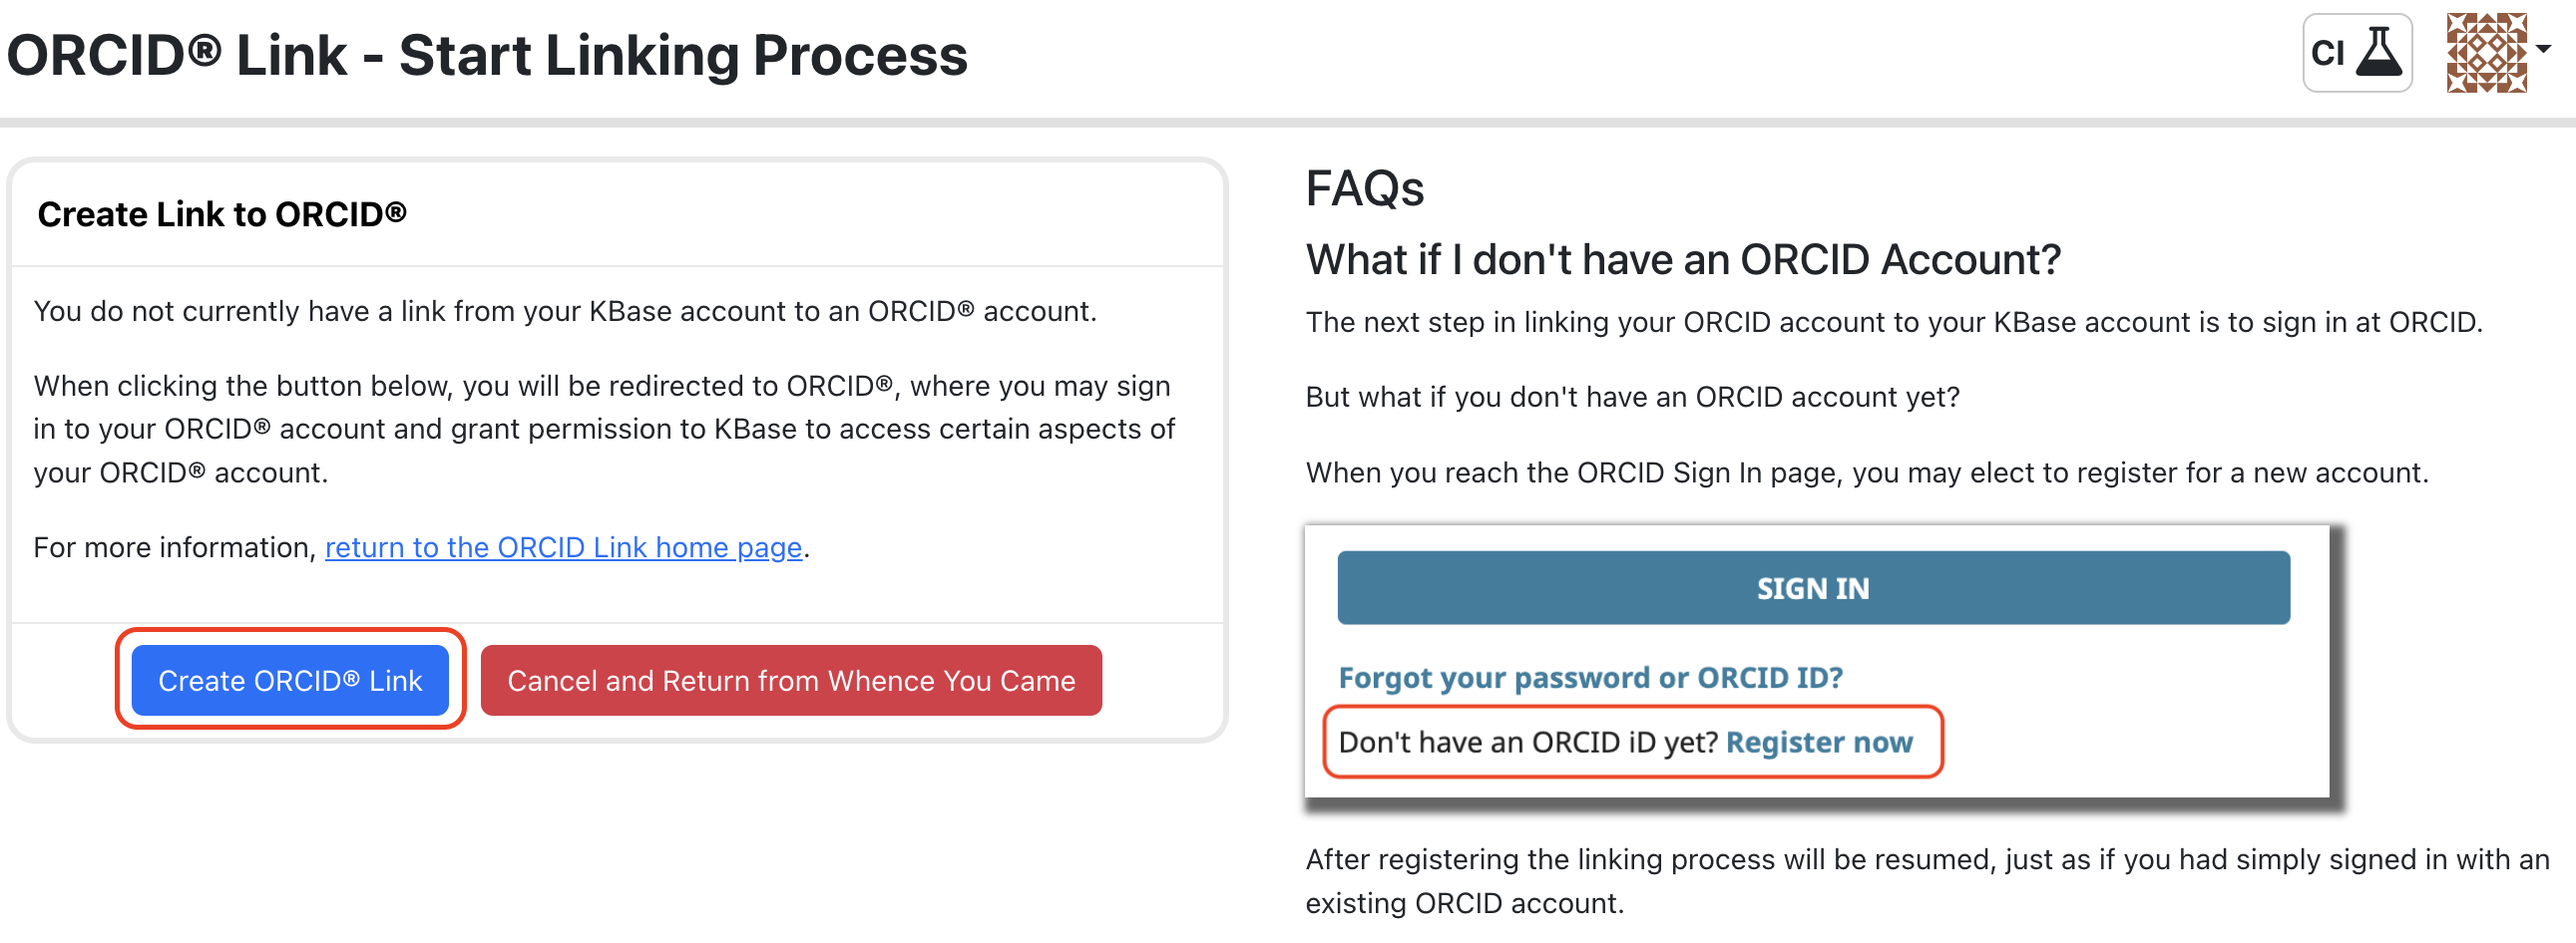
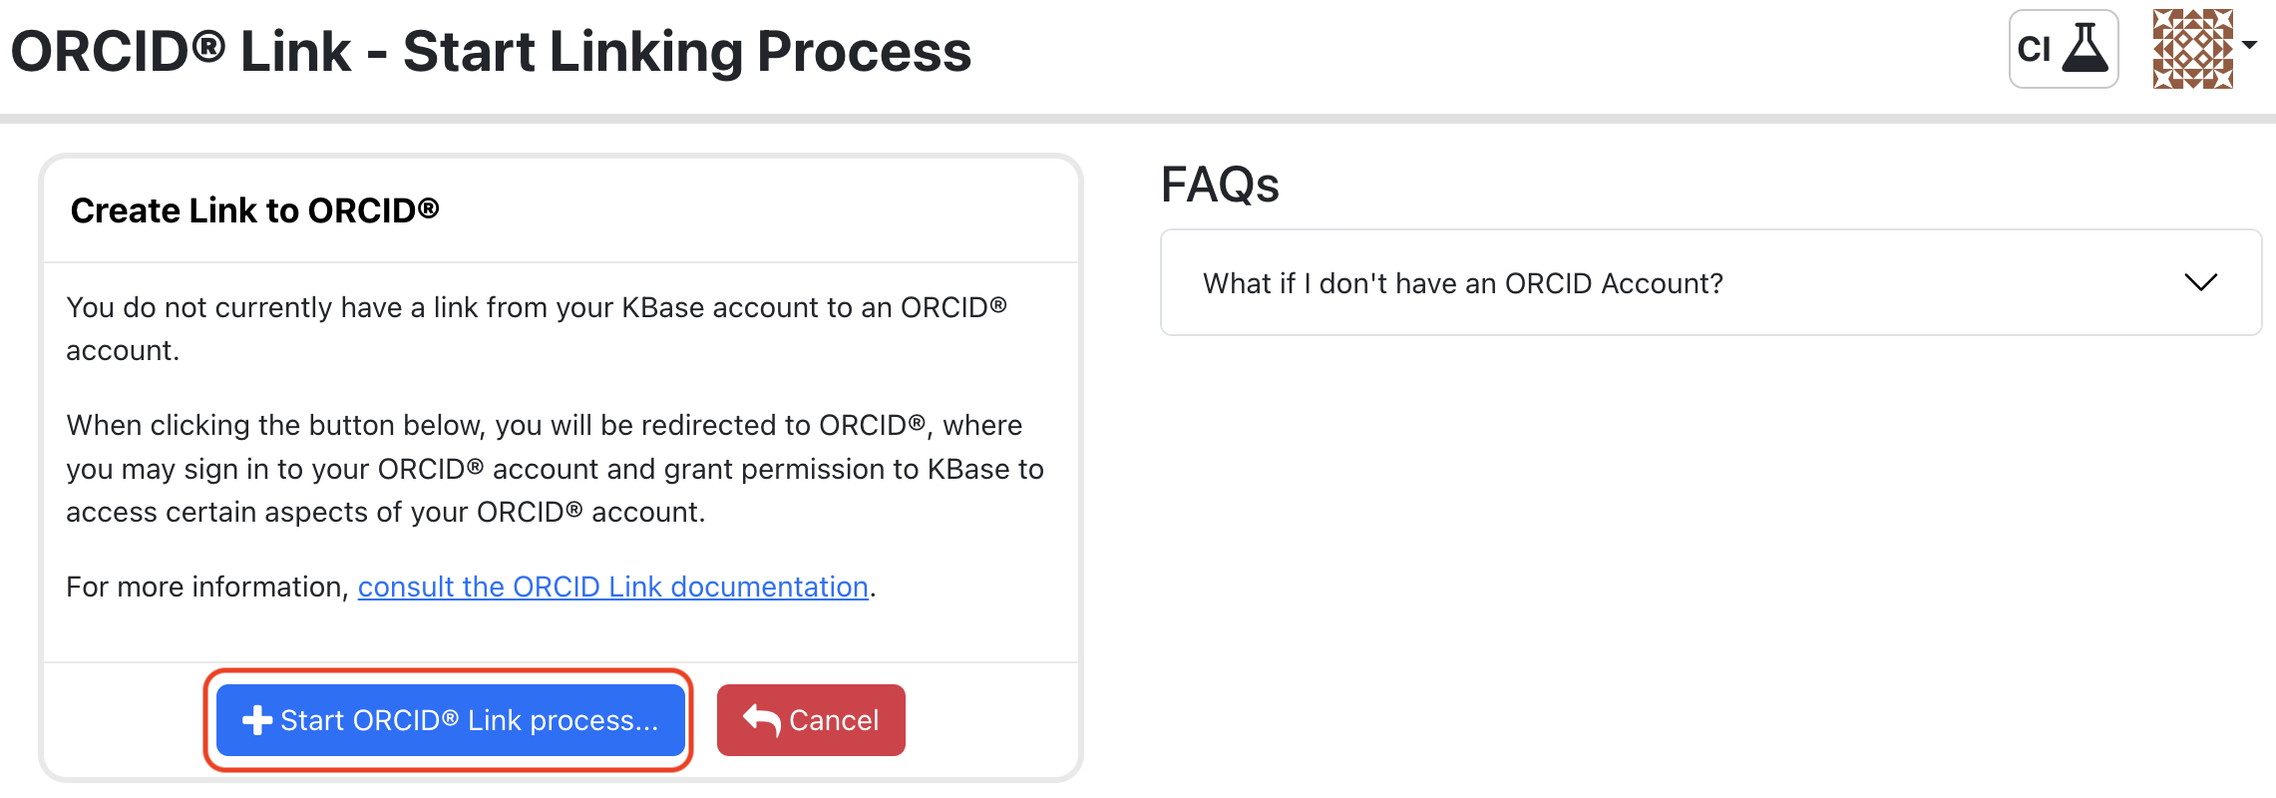
add "link from process" doc; update images

diff --git a/ORCID Link Usage Docs.md b/ORCID Link Usage Docs.md
@@ -187,7 +187,42 @@ If some UI process requires or is optionally able to use an ORCID Link (e.g. to 
 
 The ORCID Link prototype includes a small workflow which demonstrates this.
 
-> TODO - go through that process here
+#### Instructions
+
+1. Use the Demo link to start the process
+
+   ![Interstitial demo start link](./images/link-from-process/demo-link.png)
+
+2. In Step 1, select either the first or second link.
+
+   Each link will re-enter this page at the indicated step. This is controlled by the link.
+
+   ![Demo page](./images/link-from-process/demo-page.png)
+
+3. Start the linking process.
+
+   ![Start linking](./images//link-from-process/start-link.png)
+
+   - Note that there is now an info alert above the buttons letting the user know
+   that they will re-enter whatever process they started in.
+
+      The information in the link provides a url as well as a label to display to the user
+
+4. Sign in to ORCID
+
+   ![Sign in to ORCID](./images/link-from-process//orcid-sign-in.png)
+
+5. Authorize KBase
+
+   ![Authorize KBase](./images/link-from-process/orcid-authorize.png)
+
+6. Confirm the linking
+
+   ![Confirm link](./images/link-from-process/confirm-link.png)
+
+7. Return to the original demo page, at the requested step
+
+   ![Return to process page](./images/link-from-process/back-to-demo-page.png)
 
 ### Revoke Link
 

diff --git a/README.md b/README.md
@@ -3,4 +3,4 @@
 Internal documentation for the Credit Engine project.
 
 - markdown
-- images per doc in `images/x`
+- images in `images/x` where `x` is some grouping that makes sense.
